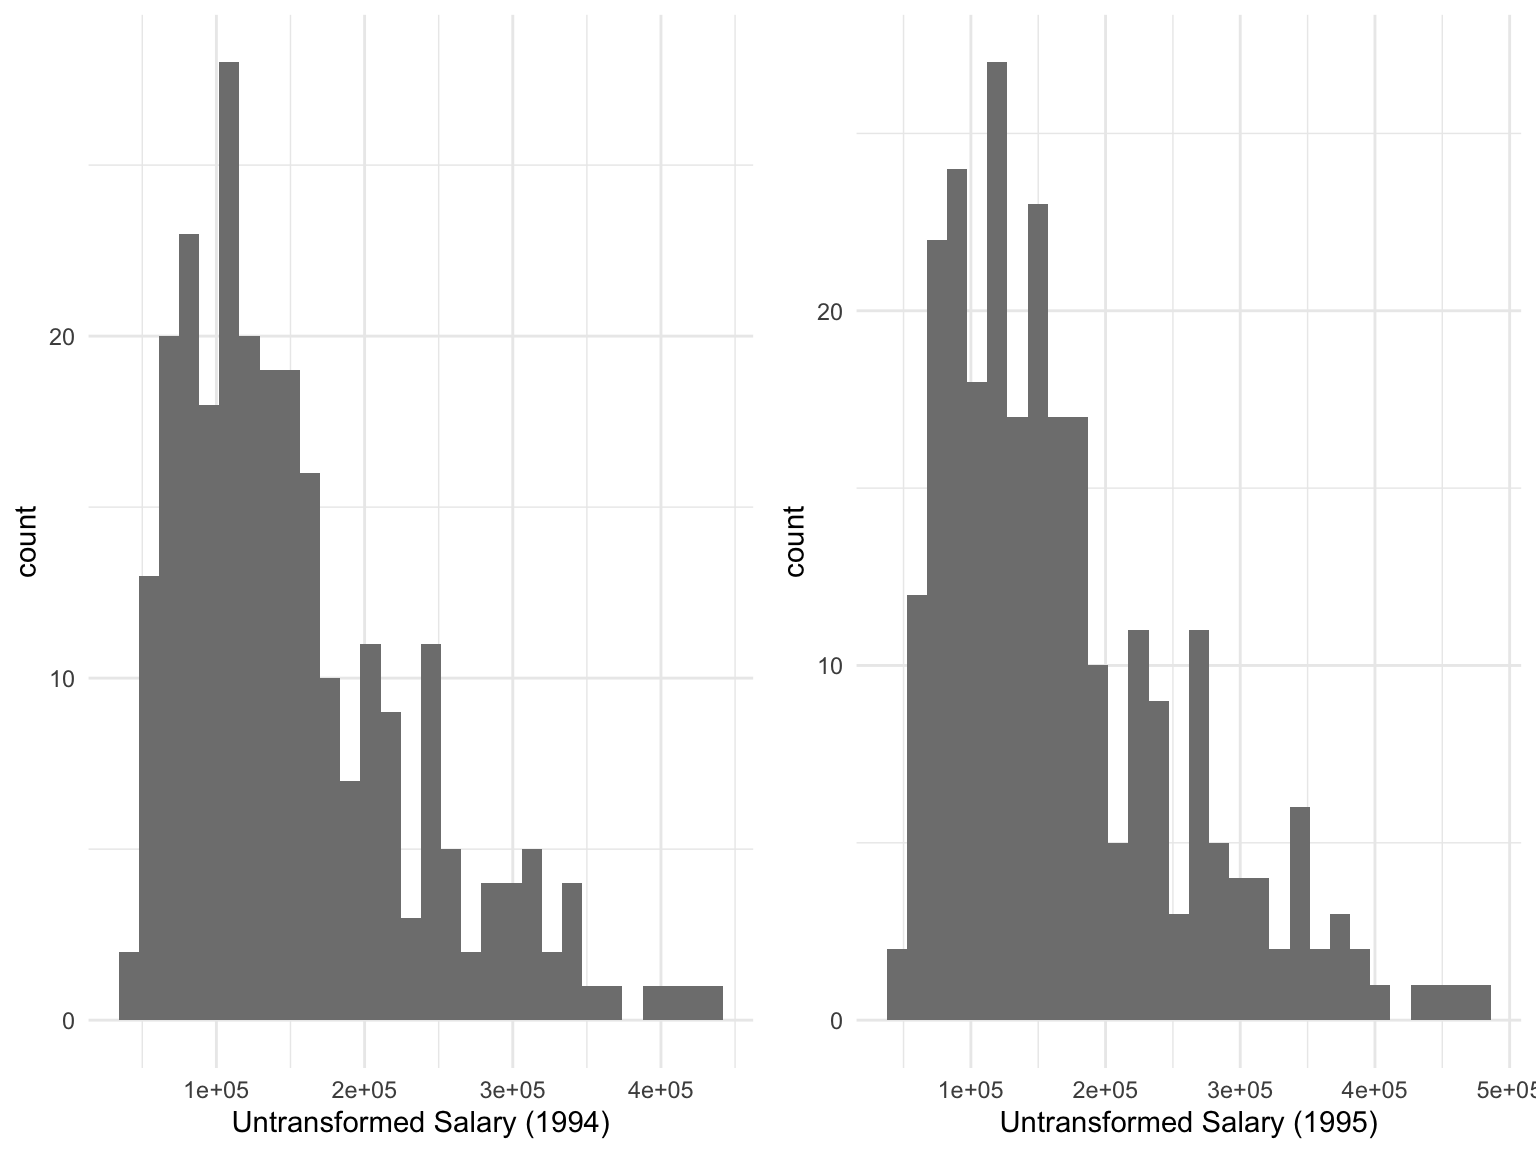
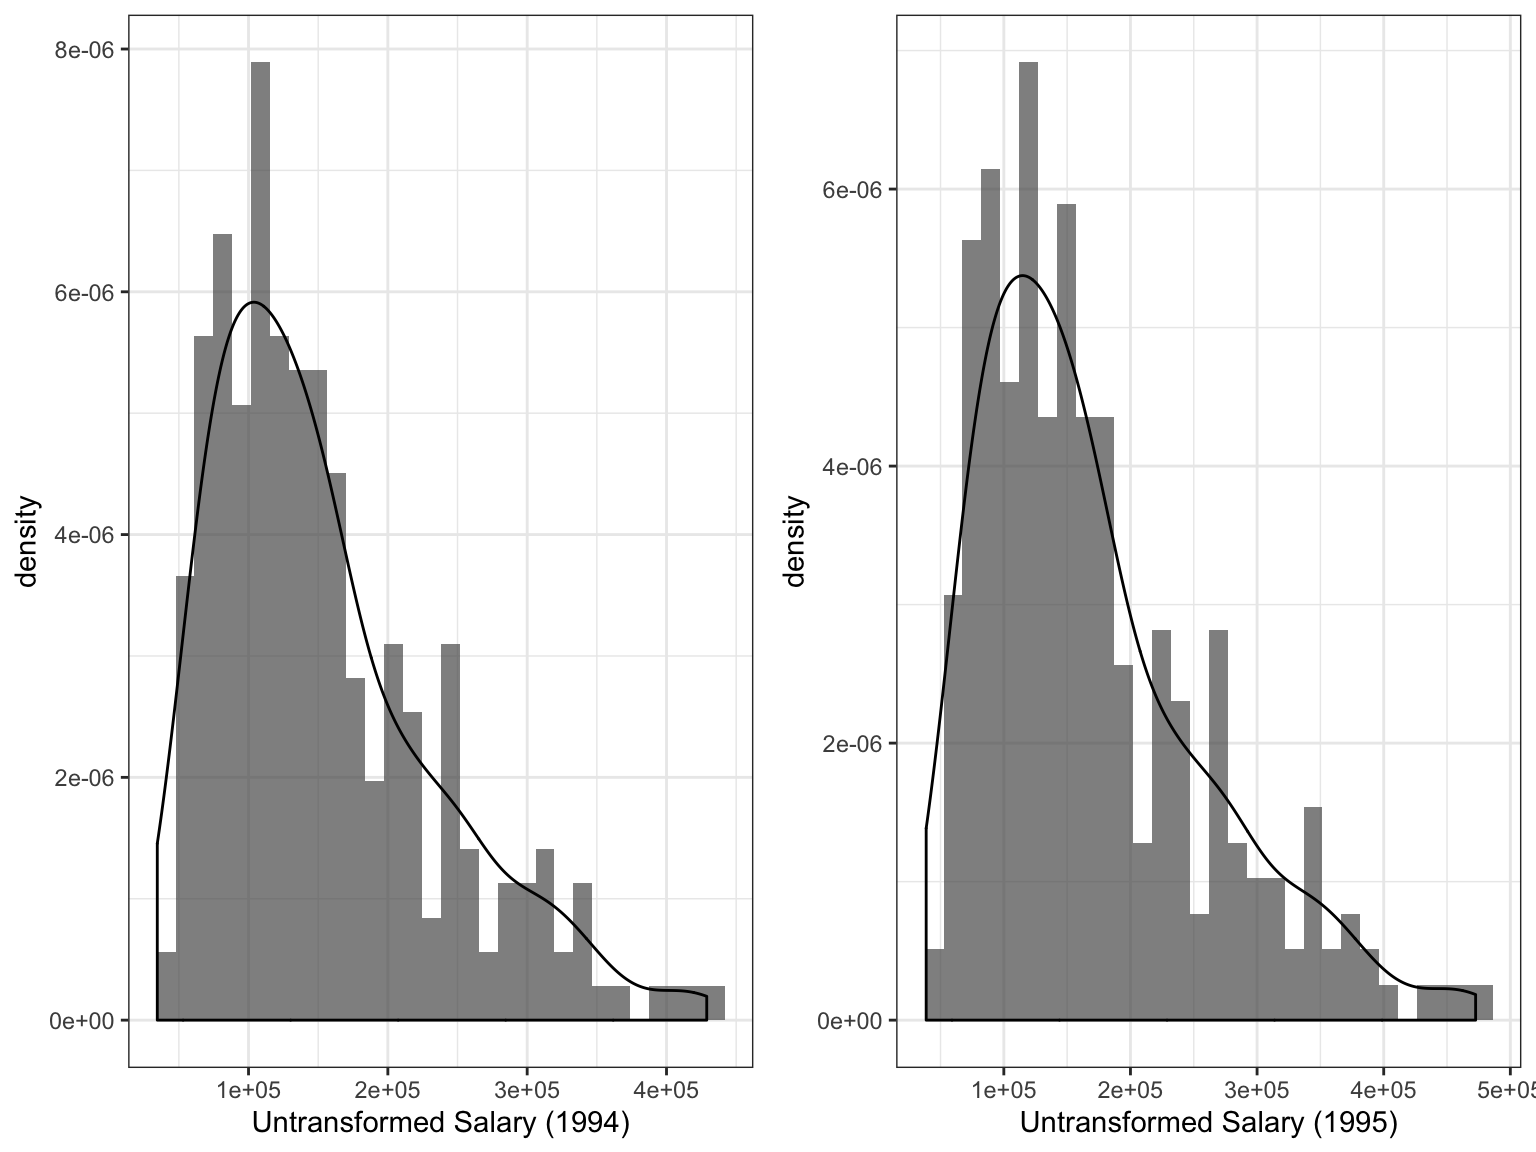
updated

diff --git a/Gender_Salary.html b/Gender_Salary.html
@@ -379,16 +379,24 @@ $(document).ready(function () {
 <pre class="r"><code>p1 = 
   lawsuit_df %&gt;% 
   ggplot(aes(x = `Salary (1994)`)) + 
-  geom_histogram(fill = &quot;gray50&quot;) +
+  geom_histogram(aes(x = `Salary (1994)`, y = ..density..), alpha = .7) +
+  geom_density(aes(x = `Salary (1994)`)) +
+  theme(plot.title = element_text(hjust = .5)) +
   labs(
-    x = &quot;Untransformed Salary (1994)&quot;)
+    x = &quot;Untransformed Salary (1994)&quot;) +
+  theme_bw() +
+  ggsci::scale_fill_lancet()
 
 p2 = 
   lawsuit_df %&gt;% 
   ggplot(aes(x = `Salary (1995)`)) + 
-  geom_histogram(fill = &quot;gray50&quot;) +
+  geom_histogram(aes(x = `Salary (1995)`, y = ..density..), alpha = .7) +
+  geom_density(aes(x = `Salary (1995)`)) +
+  theme(plot.title = element_text(hjust = .5)) +
   labs(
-    x = &quot;Untransformed Salary (1995)&quot;)
+    x = &quot;Untransformed Salary (1995)&quot;) +
+  theme_bw() +
+  ggsci::scale_fill_lancet()
 
 gridExtra::grid.arrange(p1, p2, ncol = 2)</code></pre>
 <p><img src="Gender_Salary_files/figure-html/unnamed-chunk-2-1.png" width="90%" /></p>
@@ -401,15 +409,23 @@ gridExtra::grid.arrange(p1, p2, ncol = 2)</code></pre>
 p3 = 
   lawsuit_df %&gt;%
   ggplot(aes(x = log_sal94)) + 
-  geom_histogram(fill = &quot;gray50&quot;) +
+  geom_histogram(aes(x = log_sal94, y = ..density..), alpha = .7) + 
+  geom_density(aes(x = log_sal94)) +
+  theme(plot.title = element_text(hjust = .5)) +
   labs(
-    x = &quot;Log-Transformed Salary (1994)&quot;)
+    x = &quot;Log-Transformed Salary (1994)&quot;) +
+  theme_bw() +
+  ggsci::scale_fill_lancet()
 p4 = 
   lawsuit_df %&gt;%
   ggplot(aes(x = log_sal95)) + 
-  geom_histogram(fill = &quot;gray50&quot;) +
+  geom_histogram(aes(x = log_sal95, y = ..density..), alpha = .7) + 
+  geom_density(aes(x = log_sal95)) +
+  theme(plot.title = element_text(hjust = .5)) +
   labs(
-    x = &quot;Log-Transformed Salary (1995)&quot;)
+    x = &quot;Log-Transformed Salary (1995)&quot;) +
+  theme_bw() +
+  ggsci::scale_fill_lancet()
 gridExtra::grid.arrange(p3, p4, ncol = 2)</code></pre>
 <p><img src="Gender_Salary_files/figure-html/unnamed-chunk-2-2.png" width="90%" /></p>
 <p>Table 1 shows that the departments of Physiology, Genetics and Pediatrics had a significantly higher proportion of female faculties compared to the male, while the department of Surgery had a significantly lower proportion of female faculties. There was no significant difference in both clinical or research emphasis as well as certification between both genders. The results also presented that years after obtaining MD for females were shorter than that of males. By comparing the rank, which was also a proxy for productivity, the proportion of full professors among female faculties was much lesser than males.</p>
